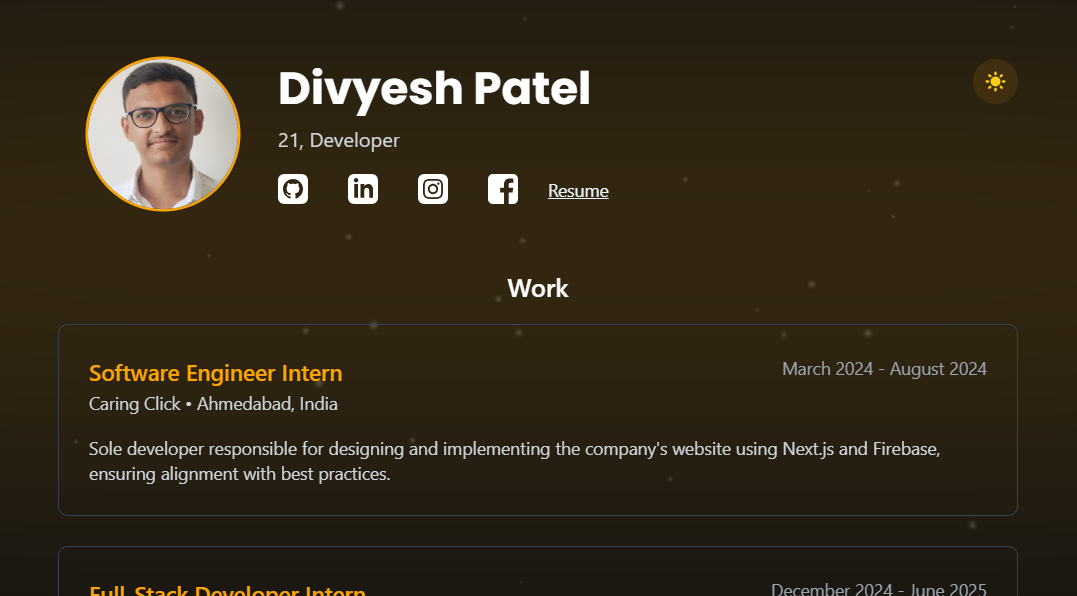
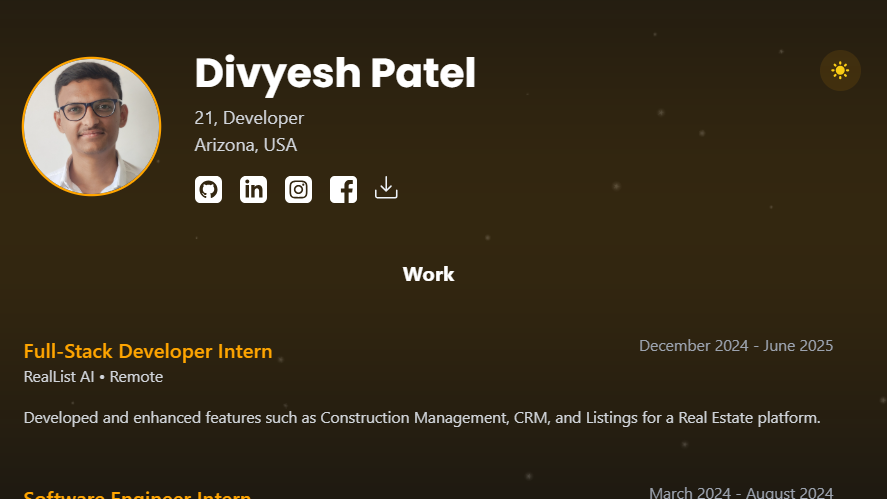
Updated location

diff --git a/index.html b/index.html
@@ -5,11 +5,11 @@
         <meta name="viewport" content="width=device-width, initial-scale=1.0" />
         <meta
             name="description"
-            content="Divyesh Patel, a software developer based in Ahmedabad. Currently in the third year of Computer Engineering. Passionate about Open Source."
+            content="Divyesh Patel, a software developer based in Arizona, USA. Currently pursuing master's in computer science."
         />
         <meta
             name="keywords"
-            content="Divyesh Patel, software developer, Ahmedabad, Computer Engineering, Open Source, web development"
+            content="Divyesh Patel, software developer, Ahmedabad, Arizona, USA, Computer Engineering, Computer Science, Full-stack developer"
         />
         <meta name="author" content="Divyesh Patel" />
         <meta name="robots" content="index, follow" />
@@ -21,7 +21,7 @@
         />
         <meta
             property="og:description"
-            content="Divyesh Patel, a software developer based in Ahmedabad. Currently in the third year of Computer Engineering. Passionate about Open Source."
+            content="Divyesh Patel, a software developer based in Arizona, USA. Currently pursuing master's in computer science."
         />
         <meta
             property="og:image"
@@ -75,8 +75,8 @@
                 "jobTitle": "Software Developer",
                 "address": {
                     "@type": "PostalAddress",
-                    "addressLocality": "Ahmedabad",
-                    "addressCountry": "India"
+                    "addressLocality": "Arizona",
+                    "addressCountry": "USA"
                 },
                 "url": "https://pateldivyesh.com",
                 "sameAs": [

diff --git a/src/Components/Work.tsx b/src/Components/Work.tsx
@@ -1,19 +1,19 @@
 const experiences = [
     {
-        role: "Software Engineer Intern",
-        company: "Caring Click",
-        location: "Ahmedabad, India",
-        duration: "March 2024 - August 2024",
-        description:
-            "Sole developer responsible for designing and implementing the financial advisory services company's online presence.",
-    },
-    {
         role: "Full-Stack Developer Intern",
         company: "RealList AI",
         location: "Remote",
         duration: "December 2024 - June 2025",
         description:
             "Developed and enhanced features such as Construction Management, CRM, and Listings for a Real Estate platform.",
+    },
+    {
+        role: "Software Engineer Intern",
+        company: "Caring Click",
+        location: "Ahmedabad, India",
+        duration: "March 2024 - August 2024",
+        description:
+            "Sole developer responsible for designing and implementing the financial advisory services company's online presence.",
     },
 ];
 
